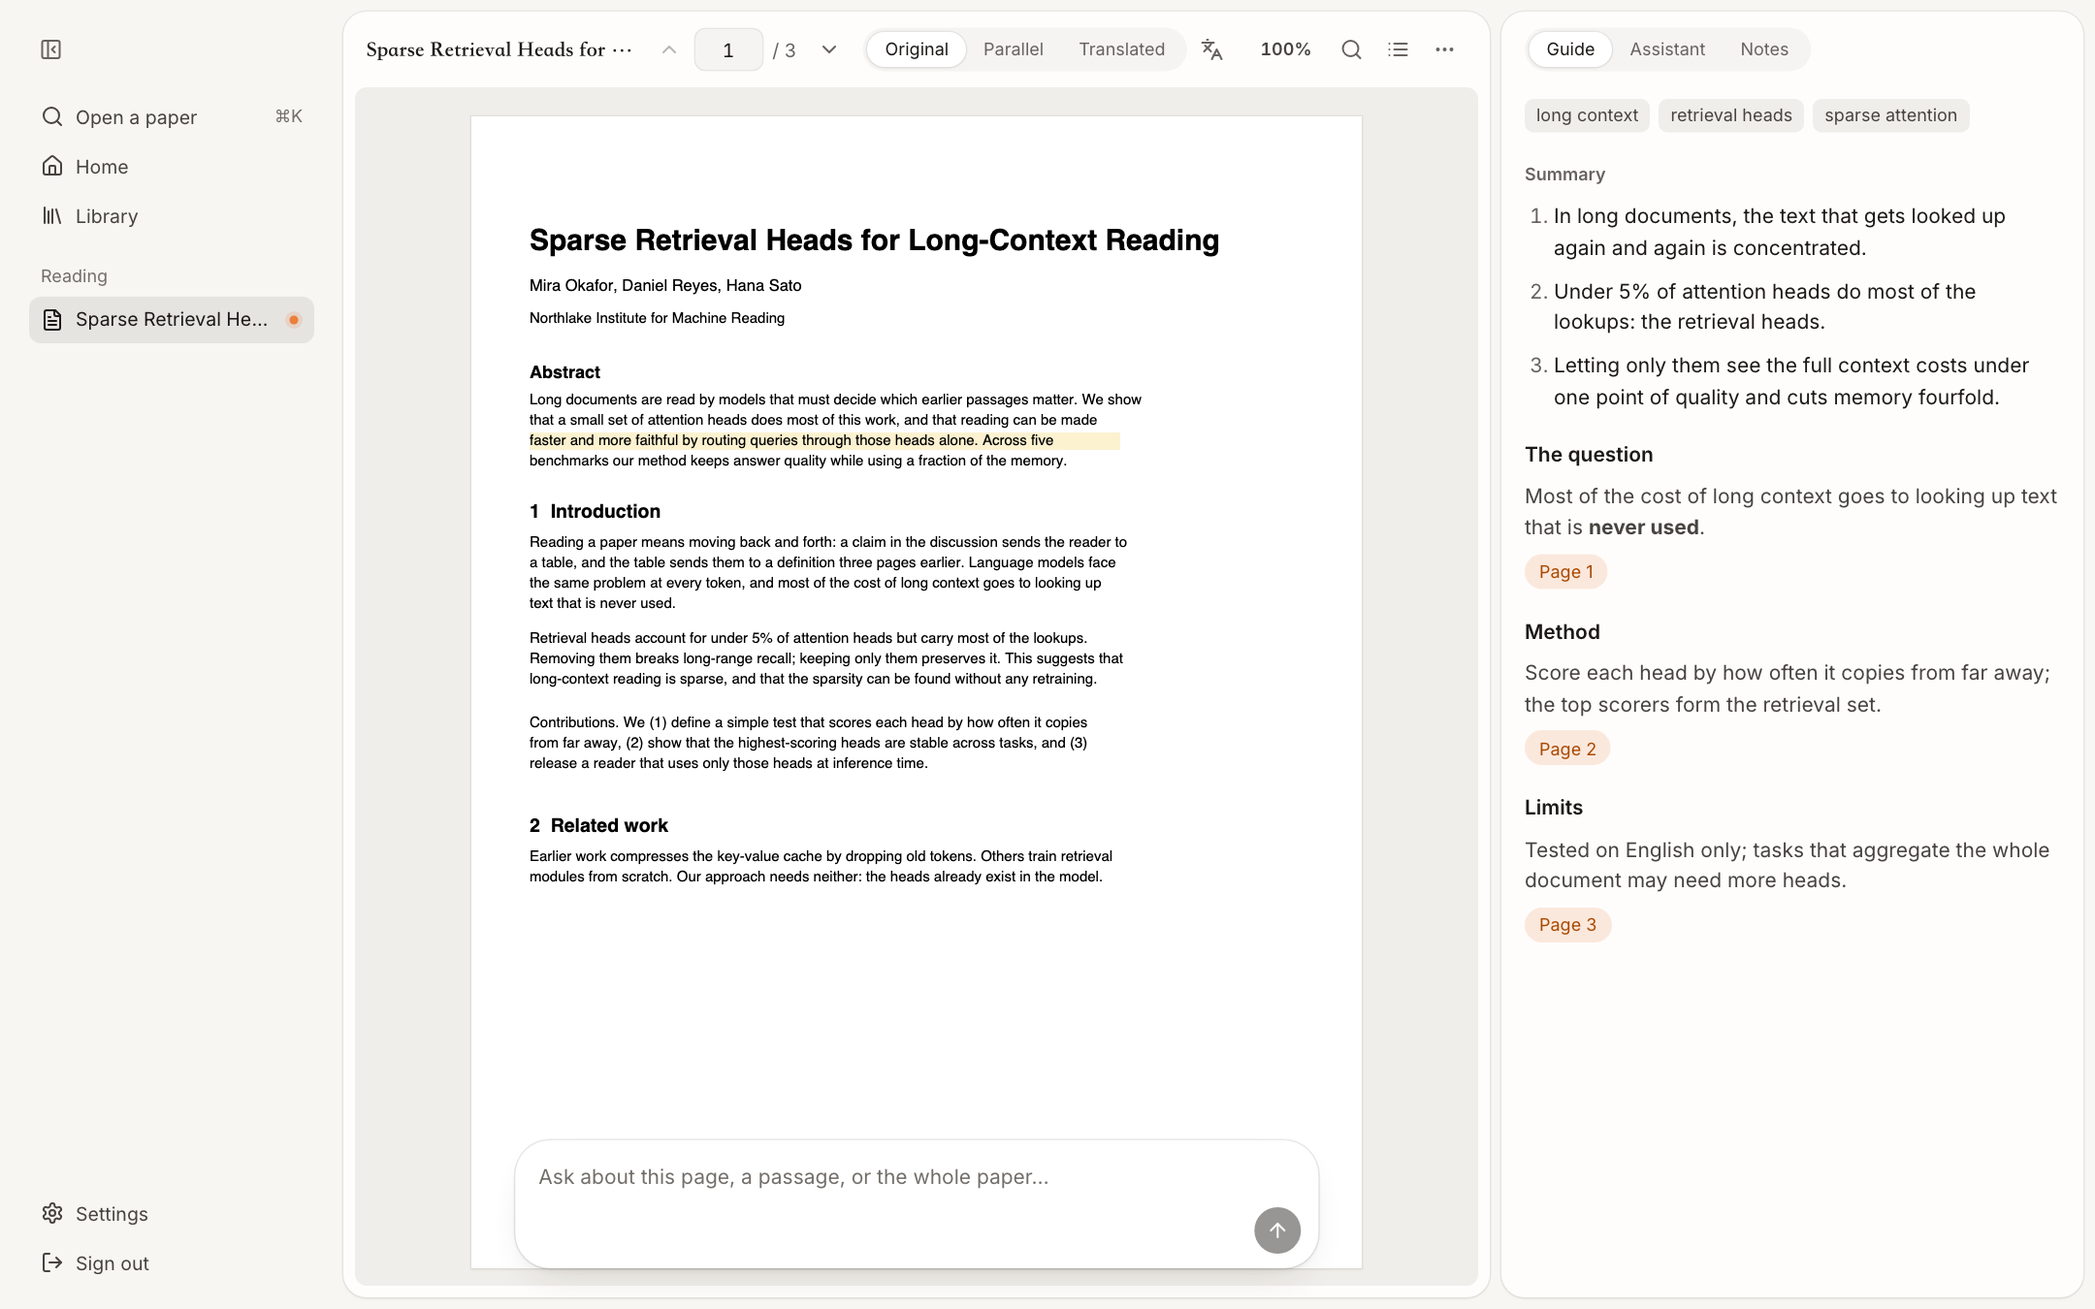
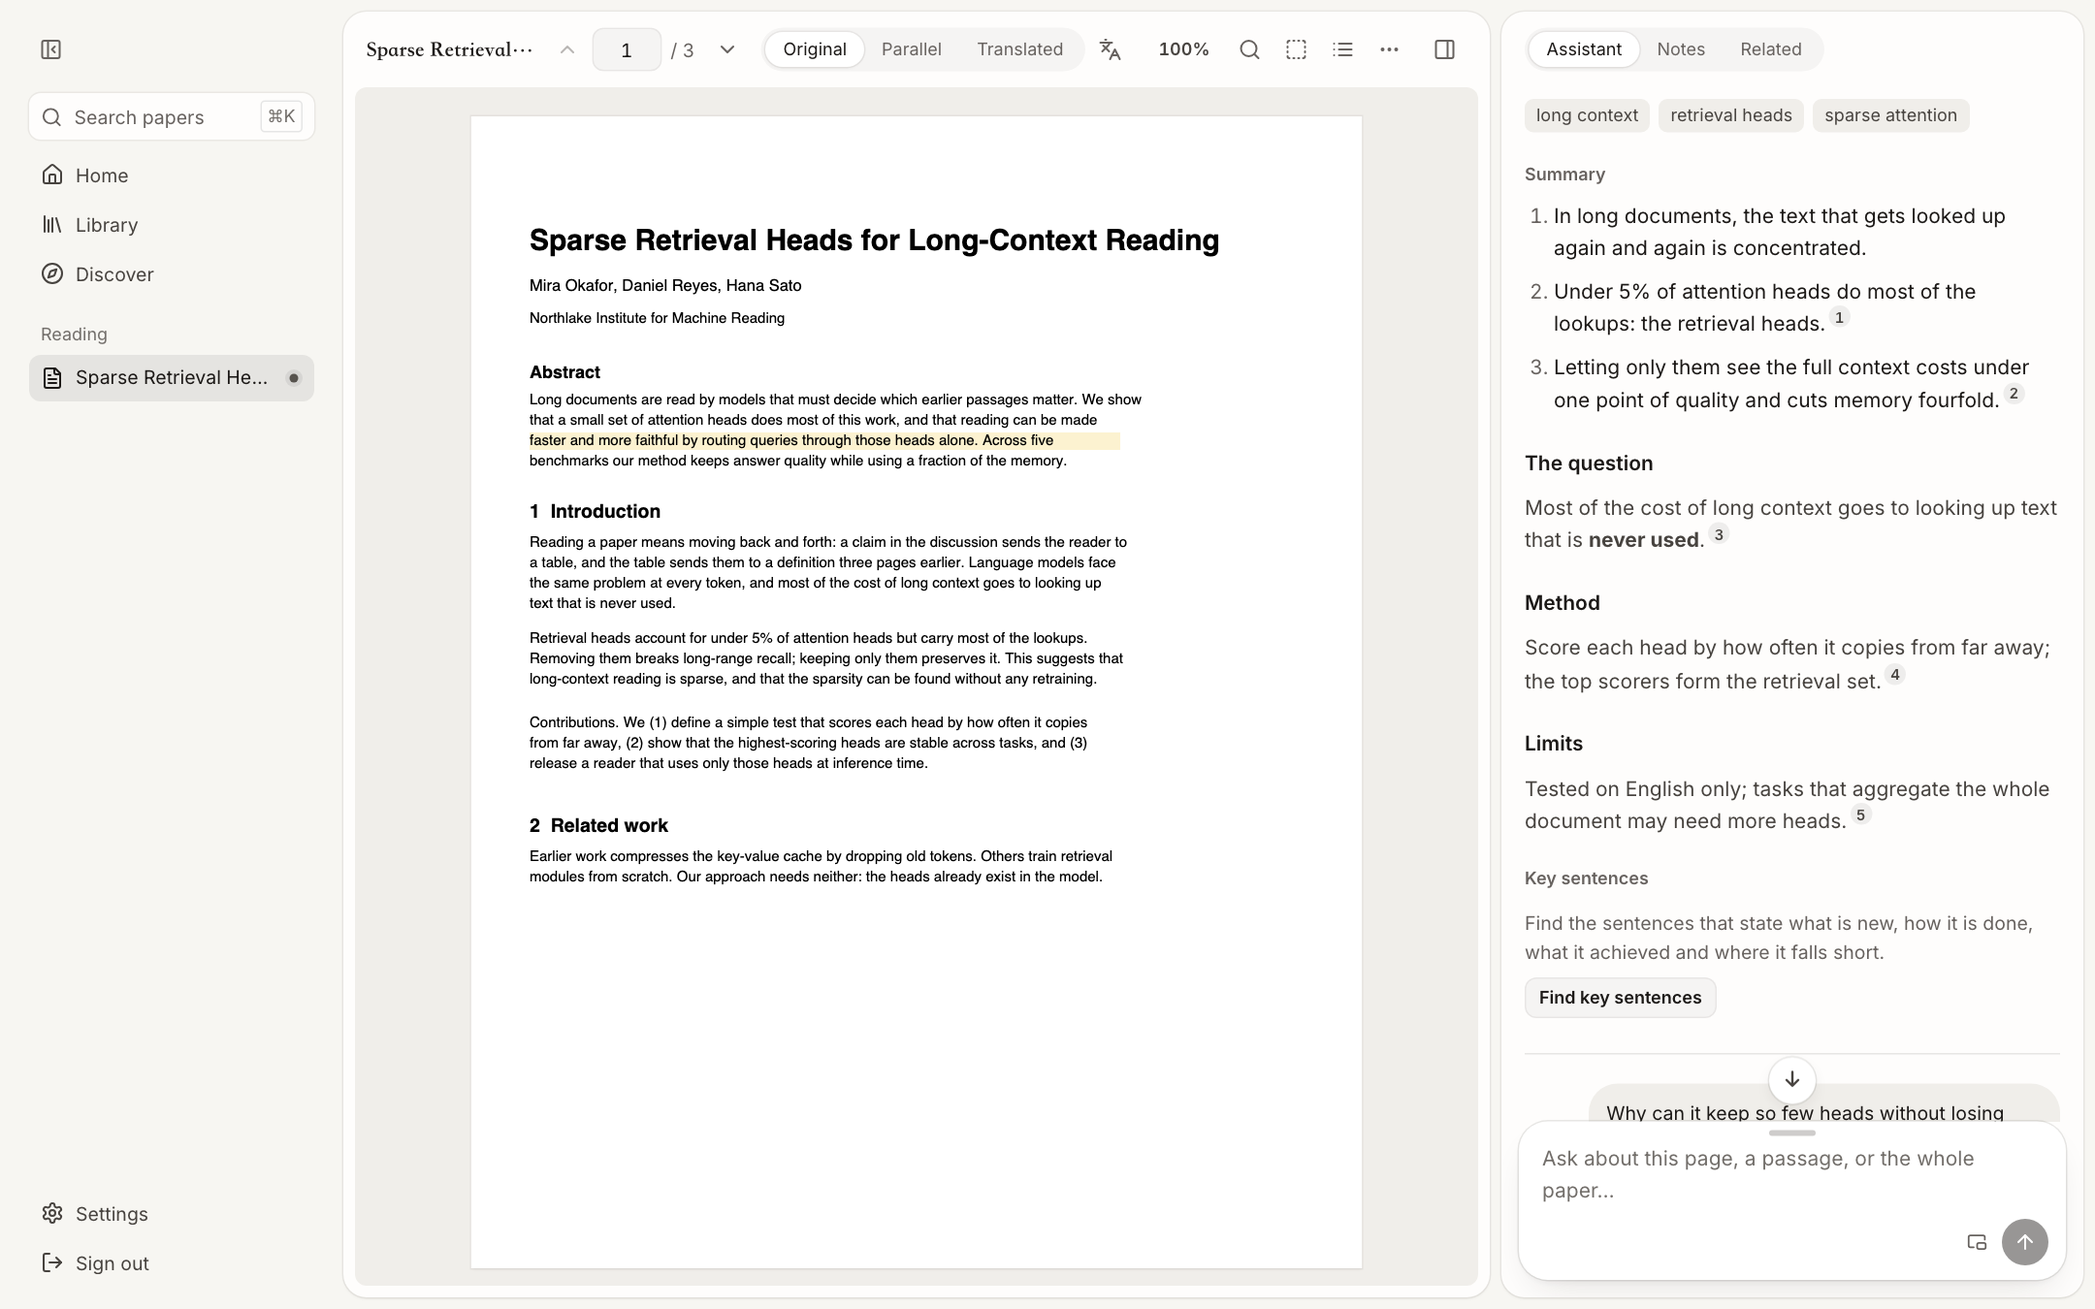
改名 Open Paper Reader：README 中英文按现有功能重写并配新头图（浅色/深色），仓库地址改为 Jialei-03/open-paper-reader，界面与扩展的品牌名首字母大写（命令、包名、路径仍为小写），官网截图按新界面重拍

diff --git a/frontend/e2e/site-shots.spec.ts b/frontend/e2e/site-shots.spec.ts
@@ -1,22 +1,21 @@
 import { expect, test, type Page } from "@playwright/test";
-import { mkdirSync, copyFileSync } from "node:fs";
+import { mkdirSync } from "node:fs";
 import { resolve } from "node:path";
 import { en } from "../src/i18n/messages/en";
 import { zh } from "../src/i18n/messages/zh";
 import { openReader, saveHighlight, signIn } from "./reader/fixtures";
 
 /*
- * Takes the pictures of the reader that the public page and the README show:
+ * Takes the pictures of the reader that the public page shows (the README banner is made from them):
  * the guide, a selection with its menu, the assistant's answer with citations,
  * and 对照 mode, each in light and dark, in both languages.
  * It is not part of the suite: `SITE_SHOTS=1 npx playwright test e2e/site-shots.spec.ts`
- * rewrites frontend/public/assets/site/ and docs/assets/reader.png.
+ * rewrites frontend/public/assets/site/.
  */
 test.skip(!process.env.SITE_SHOTS, "only when the pictures are being remade");
 test.use({ viewport: { width: 1440, height: 900 } });
 
 const OUT = resolve(process.cwd(), "public/assets/site");
-const README = resolve(process.cwd(), "../docs/assets/reader.png");
 
 type Line = { y: number; text: string; size?: number; bold?: boolean };
 
@@ -222,26 +221,27 @@ const COPY = {
       `因为长上下文里真正被反复查找的内容很集中。论文发现，检索头占全部注意力头不到 5%，却承担了大部分查找${link}。只让它们看完整上下文，其余的头只看短窗口，质量下降不到一个点，显存降到四分之一。`,
     cite: "p.1",
     guide: {
+      cited: true,
       keywords: ["长上下文", "检索头", "稀疏注意力"],
       summary: [
         "长文档阅读里，真正被反复查找的内容很集中。",
-        "不到 5% 的注意力头承担了大部分查找，称为检索头。",
-        "只让检索头看完整上下文，质量下降不到一个点，显存降到四分之一。",
+        '不到 5% 的注意力头承担了大部分查找，称为检索头。[[p1: "Retrieval heads account for under 5% of attention heads but carry most of the lookups."]]',
+        '只让检索头看完整上下文，质量下降不到一个点，显存降到四分之一。[[p2: "by a factor of four on the longest inputs."]]',
       ],
       sections: [
         {
           title: "研究问题",
-          body: "长上下文的大部分开销花在查找**从未用到**的文字上。",
+          body: '长上下文的大部分开销花在查找**从未用到**的文字上。[[p1: "text that is never used."]]',
           pages: [1],
         },
         {
           title: "方法",
-          body: "按“是否复制远处的内容”给每个头打分，高分的头组成检索集。",
+          body: '按“是否复制远处的内容”给每个头打分，高分的头组成检索集。[[p2: "Heads above a threshold form the retrieval set."]]',
           pages: [2],
         },
         {
           title: "适用边界",
-          body: "只在英文文本上验证；需要整篇聚合的任务可能要保留更多头。",
+          body: '只在英文文本上验证；需要整篇聚合的任务可能要保留更多头。[[p3: "The retrieval set is found on English text; we have not tested other scripts."]]',
           pages: [3],
         },
       ],
@@ -254,26 +254,27 @@ const COPY = {
       `Because the lookups that long context needs are concentrated. The paper finds that retrieval heads are under 5% of all heads but carry most of the lookups ${link}. Letting only those see the full context, while the rest see a short window, costs under one point of quality and cuts memory fourfold.`,
     cite: "p.1",
     guide: {
+      cited: true,
       keywords: ["long context", "retrieval heads", "sparse attention"],
       summary: [
         "In long documents, the text that gets looked up again and again is concentrated.",
-        "Under 5% of attention heads do most of the lookups: the retrieval heads.",
-        "Letting only them see the full context costs under one point of quality and cuts memory fourfold.",
+        'Under 5% of attention heads do most of the lookups: the retrieval heads.[[p1: "Retrieval heads account for under 5% of attention heads but carry most of the lookups."]]',
+        'Letting only them see the full context costs under one point of quality and cuts memory fourfold.[[p2: "by a factor of four on the longest inputs."]]',
       ],
       sections: [
         {
           title: "The question",
-          body: "Most of the cost of long context goes to looking up text that is **never used**.",
+          body: 'Most of the cost of long context goes to looking up text that is **never used**.[[p1: "text that is never used."]]',
           pages: [1],
         },
         {
           title: "Method",
-          body: "Score each head by how often it copies from far away; the top scorers form the retrieval set.",
+          body: 'Score each head by how often it copies from far away; the top scorers form the retrieval set.[[p2: "Heads above a threshold form the retrieval set."]]',
           pages: [2],
         },
         {
           title: "Limits",
-          body: "Tested on English only; tasks that aggregate the whole document may need more heads.",
+          body: 'Tested on English only; tasks that aggregate the whole document may need more heads.[[p3: "The retrieval set is found on English text; we have not tested other scripts."]]',
           pages: [3],
         },
       ],
@@ -457,7 +458,7 @@ for (const language of ["zh", "en"] as const) {
         return file;
       };
       const pageOne = page.locator('[data-page="1"]');
-      const tab = (key: "guide" | "assistant") =>
+      const tab = (key: "assistant" | "notes") =>
         page
           .getByRole("tablist")
           .getByRole("tab", { name: words[`reader.tab.${key}`] });
@@ -465,7 +466,8 @@ for (const language of ["zh", "en"] as const) {
       // 1. The guide, written for the paper.
       await openReader(page, { paperId, fileId, page: 1 });
       await expect(pageOne).toHaveAttribute("data-rendered", "true");
-      await tab("guide").click();
+      // The guide opens the assistant's view.
+      await tab("assistant").click();
       await expect(page.getByText(copy.guide.summary[0])).toBeVisible();
       await shoot("guide");
 
@@ -496,8 +498,7 @@ for (const language of ["zh", "en"] as const) {
       await expect(pageOne).toHaveAttribute("data-rendered", "true");
       await tab("assistant").click();
       await expect(page.getByText(copy.ask)).toBeVisible();
-      const hero = await shoot("reader");
-      if (language === "en" && theme === "light") copyFileSync(hero, README);
+      await shoot("reader");
 
       // 4. 对照: the translation beside each page.
       await openReader(page, { paperId, fileId, page: 1 });

diff --git a/frontend/src/features/ProductSite.tsx b/frontend/src/features/ProductSite.tsx
@@ -6,9 +6,9 @@ import { useAppearance } from "../ui/theme";
 import { LanguageSwitch } from "./LanguageSwitch";
 import styles from "./product-site.module.css";
 
-export const REPOSITORY = "https://github.com/Jialei-03/zhijian";
+export const REPOSITORY = "https://github.com/Jialei-03/open-paper-reader";
 
-export const INSTALL = "uvx open-paper-reader";
+export const INSTALL = "uvx Open Paper Reader";
 
 const steps = [
   ["import", "01", null],
@@ -86,7 +86,7 @@ export function ProductSite({ path }: { path: string }) {
   const { theme } = useAppearance();
   const root = useReveal();
   useEffect(() => {
-    document.title = `open-paper-reader · ${t("site.hero.title")}`;
+    document.title = `Open Paper Reader · ${t("site.hero.title")}`;
   }, [t]);
   useEffect(() => {
     if (path !== "how") return;
@@ -113,7 +113,7 @@ export function ProductSite({ path }: { path: string }) {
             src="/assets/icons/zhijian-book-v5.svg"
             alt=""
           />
-          open-paper-reader
+          Open Paper Reader
         </a>
         <nav aria-label={t("site.nav")} className={styles.nav}>
           <a href="#how" className={styles.navLink}>
@@ -249,7 +249,7 @@ export function ProductSite({ path }: { path: string }) {
         </section>
       </main>
       <footer className={styles.footer}>
-        <span>open-paper-reader</span>
+        <span>Open Paper Reader</span>
         <span>{t("site.footer")}</span>
       </footer>
     </div>

diff --git a/frontend/src/i18n/messages/en.ts b/frontend/src/i18n/messages/en.ts
@@ -742,7 +742,7 @@ export const en = {
     "One paper, three ways to read it. Switch at the top of the reader at any time.",
   "site.open.title": "Open source",
   "site.open.body":
-    "open-paper-reader is open source under the MIT license. To run it yourself, use the command above; if you would rather not install anything, use the hosted version, also with your own key. Chinese and English interface, light and dark.",
+    "Open Paper Reader is open source under the MIT license. To run it yourself, use the command above; if you would rather not install anything, use the hosted version, also with your own key. Chinese and English interface, light and dark.",
   "site.nav.modes": "Reading modes",
   "site.nav.local": "Local-first",
   "site.hero.install": "Run it on your own computer",
@@ -781,7 +781,7 @@ export const en = {
     "Letting the Claude Code or Codex on your machine read papers. Only a plan for now; it is not in the current version.",
   "site.open.source": "View on GitHub",
   "site.footer": "MIT license. Not affiliated with Anthropic or OpenAI.",
-  "login.home": "open-paper-reader home",
+  "login.home": "Open Paper Reader home",
   "login.title": "Welcome back",
   "login.title.register": "Create an account",
   "login.lead": "Sign in to keep reading.",

diff --git a/frontend/src/i18n/messages/zh.ts b/frontend/src/i18n/messages/zh.ts
@@ -686,7 +686,7 @@ export const zh: { [K in keyof typeof en]: string } = {
   "site.modes.body": "同一篇论文，三种读法，在阅读器顶部随时切换。",
   "site.open.title": "开源",
   "site.open.body":
-    "open-paper-reader 以 MIT 许可开源。想自己装，用上面的命令；不想装，可以直接用在线版，同样用你自己的密钥。中文和英文界面，浅色和深色。",
+    "Open Paper Reader 以 MIT 许可开源。想自己装，用上面的命令；不想装，可以直接用在线版，同样用你自己的密钥。中文和英文界面，浅色和深色。",
   "site.nav.modes": "阅读方式",
   "site.nav.local": "本地优先",
   "site.hero.install": "在自己的电脑上运行",
@@ -722,7 +722,7 @@ export const zh: { [K in keyof typeof en]: string } = {
     "让你本机的 Claude Code 或 Codex 来读论文，目前只是计划，现在的版本里没有。",
   "site.open.source": "在 GitHub 上查看",
   "site.footer": "MIT 许可。与 Anthropic、OpenAI 无关联。",
-  "login.home": "open-paper-reader 首页",
+  "login.home": "Open Paper Reader 首页",
   "login.title": "欢迎回来",
   "login.title.register": "创建账户",
   "login.lead": "登录后继续阅读。",

diff --git a/extension/options.html b/extension/options.html
@@ -3,14 +3,14 @@
   <head>
     <meta charset="utf-8" />
     <meta name="viewport" content="width=device-width, initial-scale=1" />
-    <title>open-paper-reader 设置</title>
+    <title>Open Paper Reader 设置</title>
     <link rel="stylesheet" href="options.css" />
   </head>
   <body>
     <main>
       <h1>在哪里打开论文</h1>
       <p class="lead">
-        点击工具栏按钮或右键菜单时，网址会发到你选的 open-paper-reader 服务。
+        点击工具栏按钮或右键菜单时，网址会发到你选的 Open Paper Reader 服务。
         只发送网址，不发送 cookie 或页面内容。
       </p>
       <form id="form">
@@ -20,7 +20,7 @@
             <input type="radio" name="kind" value="local" />
             <span>
               本机版 <code>http://127.0.0.1:8765</code>
-              <small>在自己电脑上运行 open-paper-reader 时选这个。</small>
+              <small>在自己电脑上运行 Open Paper Reader 时选这个。</small>
             </span>
           </label>
           <label class="choice">

diff --git a/frontend/index.html b/frontend/index.html
@@ -21,10 +21,10 @@
       sizes="180x180"
       href="/assets/icons/zhijian-book-touch-v5.png"
     />
-    <title>open-paper-reader · Read papers with an AI assistant</title>
+    <title>Open Paper Reader · Read papers with an AI assistant</title>
     <meta
       name="description"
-      content="open-paper-reader is an open-source paper reader with an AI assistant: import a PDF, get a guide, select text to have it explained, and ask the assistant. Answers cite pages and link back to the sentence. 开源的论文阅读器：导入、自动导读、划选解释、问助手，引用回到原文。"
+      content="Open Paper Reader is an open-source paper reader with an AI assistant: import a PDF, get a guide, select text to have it explained, and ask the assistant. Answers cite pages and link back to the sentence. 开源的论文阅读器：导入、自动导读、划选解释、问助手，引用回到原文。"
     />
   </head>
   <body>

diff --git a/frontend/e2e/product-site.spec.ts b/frontend/e2e/product-site.spec.ts
@@ -141,7 +141,10 @@ for (const [locale, words] of [
       ).toBeVisible();
       await expect(
         page.getByRole("link", { name: words["site.open.source"] }),
-      ).toHaveAttribute("href", "https://github.com/Jialei-03/zhijian");
+      ).toHaveAttribute(
+        "href",
+        "https://github.com/Jialei-03/open-paper-reader",
+      );
       // Nothing on the page names a product from Claude or Anthropic as its own.
       await expect(page.locator("header")).not.toContainText(
         /claude|anthropic/i,

diff --git a/frontend/src/main.tsx b/frontend/src/main.tsx
@@ -85,7 +85,7 @@ function StaleNotice() {
   const { t } = useI18n();
   return (
     <div className="boot">
-      open-paper-reader <span>{t("boot.stale")}</span>
+      Open Paper Reader <span>{t("boot.stale")}</span>
     </div>
   );
 }
@@ -94,7 +94,7 @@ function Boot() {
   const { t } = useI18n();
   return (
     <div className="boot">
-      open-paper-reader <span>{t("boot.opening")}</span>
+      Open Paper Reader <span>{t("boot.opening")}</span>
     </div>
   );
 }

diff --git a/frontend/src/features/AuthFrame.tsx b/frontend/src/features/AuthFrame.tsx
@@ -25,7 +25,7 @@ export function AuthFrame({
           src="/assets/icons/zhijian-book-v5.svg"
           alt=""
         />
-        open-paper-reader
+        Open Paper Reader
       </a>
       <section className={styles.card}>
         <h1 className={styles.title}>{title}</h1>

diff --git a/extension/background.js b/extension/background.js
@@ -23,7 +23,7 @@ async function open(target) {
 chrome.runtime.onInstalled.addListener(() => {
   chrome.contextMenus.create({
     id: MENU,
-    title: "在 open-paper-reader 中打开",
+    title: "在 Open Paper Reader 中打开",
     contexts: ["page", "link"],
   });
 });

diff --git a/backend/local/cli.py b/backend/local/cli.py
@@ -34,7 +34,7 @@ NODE_HELP = (
     "  Windows: winget install OpenJS.NodeJS.LTS\n"
     "  Linux:   your package manager, or https://nodejs.org\n"
     "Reading, highlights and notes work without it; the assistant, guides and\n"
-    "translations start once Node.js is installed and open-paper-reader restarts."
+    "translations start once Node.js is installed and Open Paper Reader restarts."
 )
 
 
@@ -228,13 +228,13 @@ def main(argv=None):
     instance, other = claim_instance(data, url)
     if instance is None:
         say(
-            f"open-paper-reader is already running at {other or 'another address'} "
+            f"Open Paper Reader is already running at {other or 'another address'} "
             f"(this data folder is in use: {data}). Stop it first, or use another --data folder."
         )
         return 1
     if running(url):
         instance.close()
-        say(f"open-paper-reader is already running at {url}")
+        say(f"Open Paper Reader is already running at {url}")
         if not args.no_browser:
             webbrowser.open(url)
         return 0
@@ -270,7 +270,7 @@ def main(argv=None):
         threading.Thread(
             target=open_when_ready, args=(url, stopping), daemon=True
         ).start()
-    say(f"open-paper-reader is running at {url} as “{reader}”. Press Ctrl+C to stop.")
+    say(f"Open Paper Reader is running at {url} as “{reader}”. Press Ctrl+C to stop.")
     server = Server(
         uvicorn.Config(
             app,

diff --git a/backend/scholar.py b/backend/scholar.py
@@ -37,7 +37,7 @@ MIN_GAP = {
     "export.arxiv.org": 3.0,
 }
 MAX_PARALLEL = 3
-USER_AGENT = "open-paper-reader/0.2 (+https://github.com/Jialei-03/zhijian)"
+USER_AGENT = "open-paper-reader/0.2 (+https://github.com/Jialei-03/open-paper-reader)"
 
 FIELDS = (
     "title,authors,year,venue,abstract,citationCount,referenceCount,"
